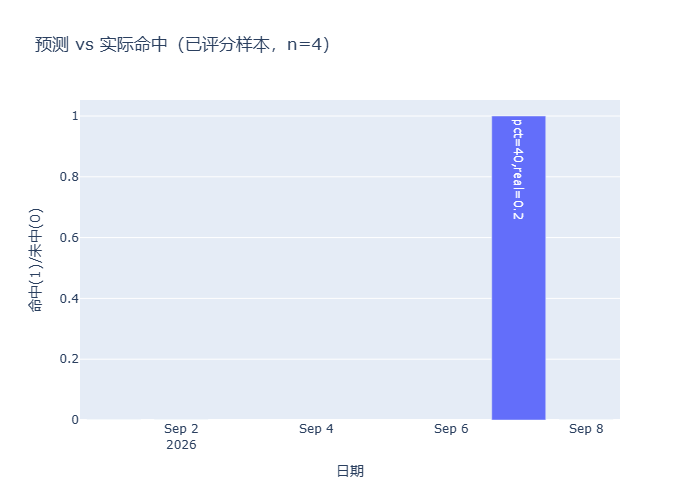
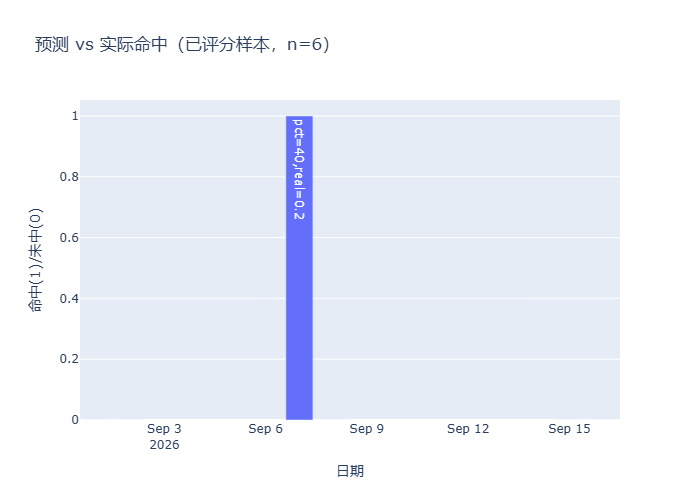
chore: thesis ch6 评估产物刷新(图/指标/报告)

diff --git a/thesis/ch6_eval/report.md b/thesis/ch6_eval/report.md
@@ -1,10 +1,10 @@
 # 第6章 评估结果（草稿，来自真实运行数据）
 
-- 决策快照样本量：11 份（['2026-08-31', '2026-09-14']）
-- 温度取值范围：[11.4, 75.2]
-- 仓位取值范围：[10, 82]，clamp[5,95] 校验：通过
-- 周期分布：{'修复试探': 7, '主升高潮': 2, '退潮': 2}
-- 预测记录：共 11 条，已评分 4 条，命中率 0.25
+- 决策快照样本量：15 份（['2026-08-31', '2026-09-21']）
+- 温度取值范围：[11.4, 81.1]
+- 仓位取值范围：[5, 82]，clamp[5,95] 校验：通过
+- 周期分布：{'修复试探': 7, '主升高潮': 3, '退潮': 3, '修复确认': 2}
+- 预测记录：共 15 条，已评分 6 条，命中率 0.16666666666666666
 
 > 说明：当前为系统上线初期，样本量有限。第6章以「决策闭环功能正确性 + 校准机制设计正确性」为评估主线，
 > 纵向命中率统计作为趋势性证据呈现，**不**对小规模样本做显著性推断（与 calibration.py 小样本不表态的设计一致）。
